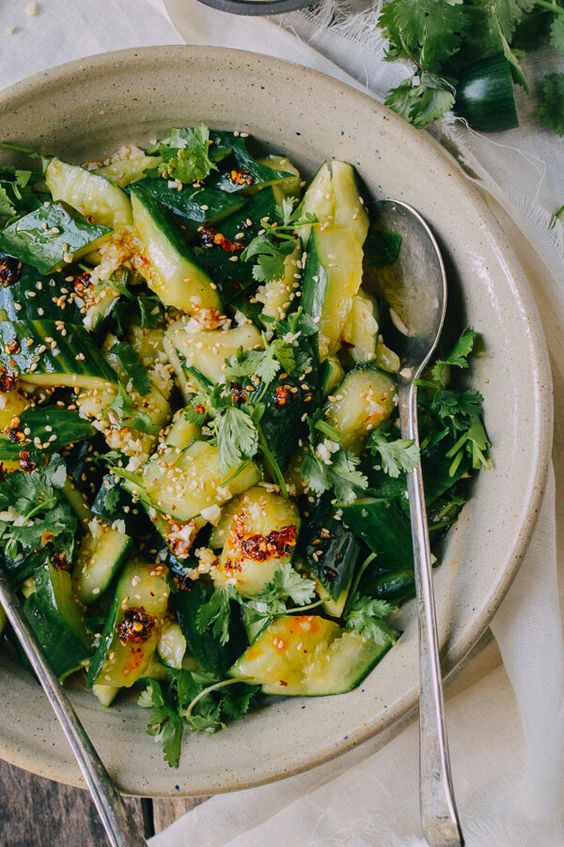
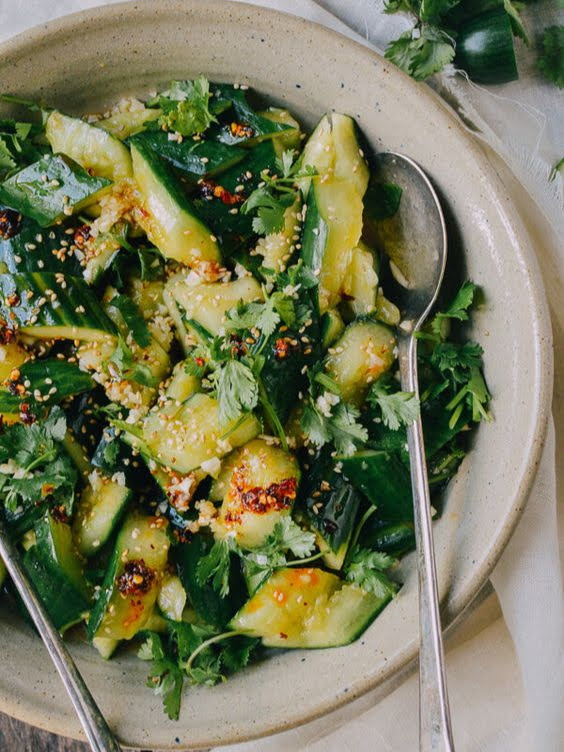
Resize images and lowercase headings on index

diff --git a/index.html b/index.html
@@ -22,11 +22,11 @@
                 <p class="description">In my second year of university, I lived in a small on-grounds apartment with five other girls, so it is no mystery that our kitchen was not impressive.
                     The same goes for the meals that came out of that kitchen.
                     In order to keep myself alive while pulling late nighters learning algorithms on the dining table, I learned to prepare a number of simple but refreshing recipes from Pinterest and TikTok:
-                    <div class="recipe"><a href="./recipes/soba.html">Cold Soba Noodles</a>
+                    <div class="recipe"><a href="./recipes/soba.html">cold soba noodles</a>
                         <a href="./recipes/soba.html"><img src="./images/soba.jpg"></a></div>
-                    <div class="recipe"><a href="./recipes/garlicchilicucumber.html">Garlic Chili Oil Cucumbers</a>
+                    <div class="recipe"><a href="./recipes/garlicchilicucumber.html">garlic chili oil cucumbers</a>
                         <a href="./recipes/garlicchilicucumber.html"><img src="./images/cucumber.jpg"></a></div>
-                    <div class="recipe"><a href="./recipes/mayakgyeran.html">Mayak Gyeran</a>
+                    <div class="recipe"><a href="./recipes/mayakgyeran.html">mayak gyeran</a>
                         <a href="./recipes/mayakgyeran.html"><img src="./images/mayakgyeran.jpg"></a></div>
                 </p>
             </div>

diff --git a/style.css b/style.css
@@ -40,10 +40,11 @@ p {
     width: 30%;
     padding: 10px;
     text-align: center;
+    color:rgb(158, 187, 140);
 }
 .recipe img{
-    width: 300px;
-    height: 400px;
+    width: 100%;
+    height: auto;
     object-fit: cover;
     border-radius: 10%;
 }
